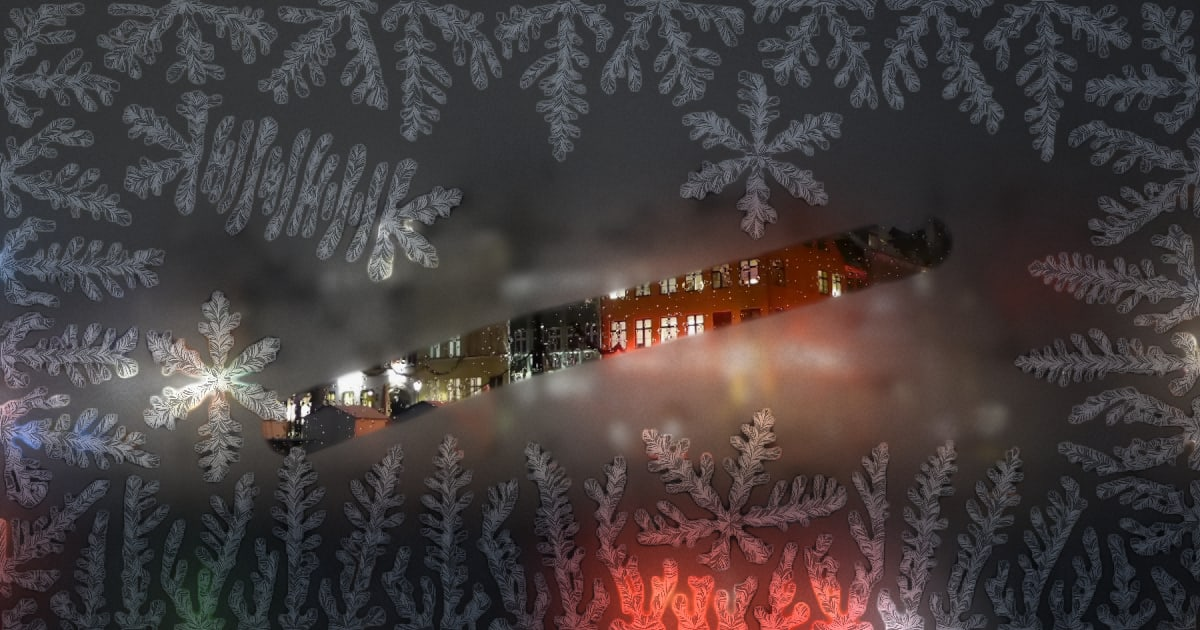
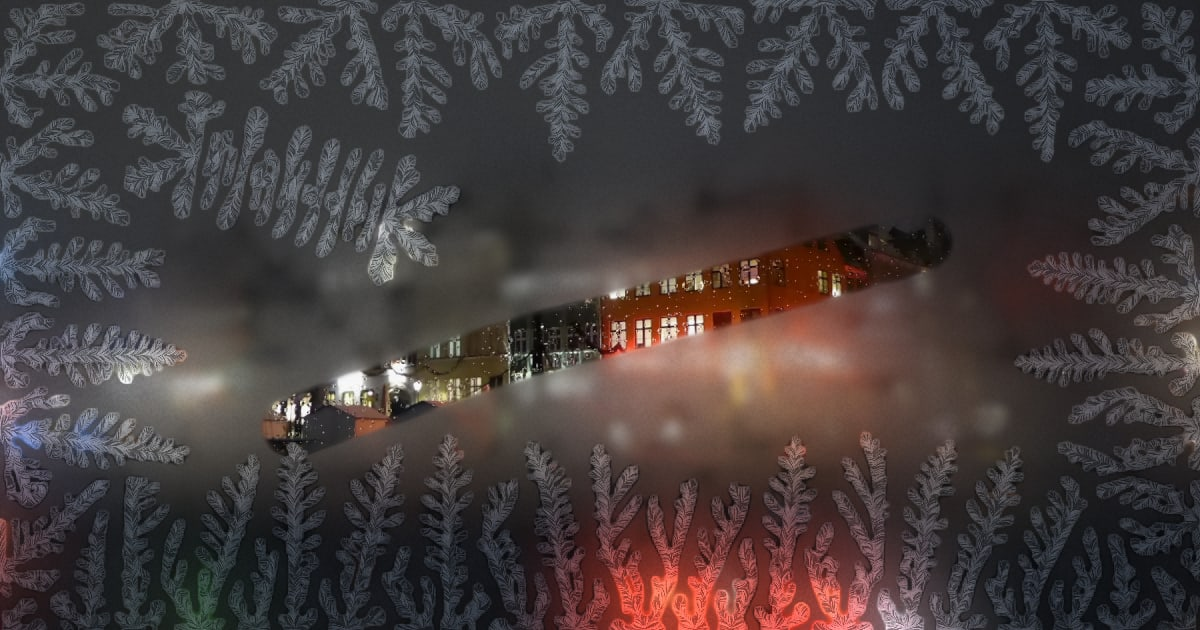
No specks of dust: the ice starts only on the frame and the scratch
Alone in open glass a crystal grew as a six-armed star, which read as a paper
snowflake, not frost. The specks' random draws are kept, so every window keeps
its scratch where it was. The test now holds that no seed sits off the frame
and off the scratch. New posters and social card.

Claude-Session: https://claude.ai/code/session_01CTffCeLPS1AvqVyJCcdvrP

diff --git a/docs/main.js b/docs/main.js
@@ -1,11 +1,11 @@
-var Xt={dx:.03,dt:1e-4,tau:2e-4,eps:.01,delta:.045,sym:6,latent:2.2,alpha:.9,gamma:10,melt:1,noise:.04,cool:0},ee={warm:12,fade:1.4,warmth:3,thaw:10,dry:.22,film:14,filmMelt:16},Lt=[-20,-2];function Vt(n){let a=Ce((-n-2)/18,0,1);return{frame:.25-.65*a,middle:.5-.6*a,foot:.08}}function $t(n){return .5+.45*Ce((-n-2)/18,0,1)}function jt(n){let a=n>>>0;return()=>{a=a+1831565813>>>0;let e=Math.imul(a^a>>>15,1|a);return e=e+Math.imul(e^e>>>7,61|e)^e,((e^e>>>14)>>>0)/4294967296}}function Rt(n,a,e){let p=jt(e),m=[],ne=()=>p()*Math.PI/3,he=(u,x)=>{for(let b=0;b<u;b++){let[Te,Ve]=x((b+.5+(p()-.5)*.7)/u);m.push({x:Te,y:Ve,r:2.5+p()*1.5,angle:ne(),frame:!0})}},F=Math.min(n,a);he(Math.max(4,Math.round(n/(F*.085))),u=>[u*n,1.5]),he(Math.max(2,Math.round(a/(F*.16))),u=>[1.5,(.06+u*.88)*a]),he(Math.max(2,Math.round(a/(F*.18))),u=>[n-1.5,(.1+u*.82)*a]),he(Math.max(2,Math.round(n/(F*.24))),u=>[(.12+u*.8)*n,a-1.5]);for(let u=0;u<3;u++){let x=p()*Math.PI*2,b=.28+p()*.12;m.push({x:n*(.5+Math.cos(x)*b),y:a*(.5+Math.sin(x)*b*.9),r:2,angle:ne(),frame:!1})}let D=p()<.5,ae=n*(.16+p()*.08),L=.32+p()*.2,ie=n*(D?.16:.84),se=a*(.74+p()*.08),ue={ax:ie,ay:se,bx:ie+(D?1:-1)*ae*Math.cos(L),by:se-ae*Math.sin(L),angle:L},E=Math.min(60-m.length,Math.max(4,Math.round(ae/9)));for(let u=0;u<E;u++){let x=(u+.5+(p()-.5)*.5)/E;m.push({x:ie+(ue.bx-ie)*x,y:se+(ue.by-se)*x,r:1.6+p(),angle:L+(p()-.5)*.3,frame:!1})}return{seeds:m.slice(0,60),scratch:ue}}var Kt=`#version 300 es
+var Xt={dx:.03,dt:1e-4,tau:2e-4,eps:.01,delta:.045,sym:6,latent:2.2,alpha:.9,gamma:10,melt:1,noise:.04,cool:0},ee={warm:12,fade:1.4,warmth:3,thaw:10,dry:.22,film:14,filmMelt:16},Lt=[-20,-2];function Vt(n){let a=Pe((-n-2)/18,0,1);return{frame:.25-.65*a,middle:.5-.6*a,foot:.08}}function $t(n){return .5+.45*Pe((-n-2)/18,0,1)}function jt(n){let a=n>>>0;return()=>{a=a+1831565813>>>0;let e=Math.imul(a^a>>>15,1|a);return e=e+Math.imul(e^e>>>7,61|e)^e,((e^e>>>14)>>>0)/4294967296}}function Rt(n,a,e){let p=jt(e),h=[],me=()=>p()*Math.PI/3,he=(u,T)=>{for(let M=0;M<u;M++){let[Te,Ve]=T((M+.5+(p()-.5)*.7)/u);h.push({x:Te,y:Ve,r:2.5+p()*1.5,angle:me(),frame:!0})}},F=Math.min(n,a);he(Math.max(4,Math.round(n/(F*.085))),u=>[u*n,1.5]),he(Math.max(2,Math.round(a/(F*.16))),u=>[1.5,(.06+u*.88)*a]),he(Math.max(2,Math.round(a/(F*.18))),u=>[n-1.5,(.1+u*.82)*a]),he(Math.max(2,Math.round(n/(F*.24))),u=>[(.12+u*.8)*n,a-1.5]);for(let u=0;u<9;u++)p();let D=p()<.5,ne=n*(.16+p()*.08),L=.32+p()*.2,ae=n*(D?.16:.84),ie=a*(.74+p()*.08),se={ax:ae,ay:ie,bx:ae+(D?1:-1)*ne*Math.cos(L),by:ie-ne*Math.sin(L),angle:L},w=Math.min(60-h.length,Math.max(4,Math.round(ne/9)));for(let u=0;u<w;u++){let T=(u+.5+(p()-.5)*.5)/w;h.push({x:ae+(se.bx-ae)*T,y:ie+(se.by-ie)*T,r:1.6+p(),angle:L+(p()-.5)*.3,frame:!1})}return{seeds:h.slice(0,60),scratch:se}}var Kt=`#version 300 es
 in vec2 p;
 void main() { gl_Position = vec4(p, 0.0, 1.0); }`,te=`#version 300 es
 precision highp float;
 precision highp int;
 precision highp sampler2D;
 out vec4 o;
-`,C=Xt,M=n=>Number.isInteger(n)?n.toFixed(1):String(n),Yt=te+`
+`,P=Xt,E=n=>Number.isInteger(n)?n.toFixed(1):String(n),Yt=te+`
 uniform sampler2D uS;    // p, T, W, water
 uniform sampler2D uA;    // cos \u03B80, sin \u03B80 (the crystal's turn), pinned (a seed on the frame), the glass's temperature
 uniform ivec2 uN;
@@ -15,9 +15,9 @@ uniform vec4 uSeg;       // the finger's path over this step, a to b, in cells
 uniform float uRad;      // its radius, cells
 uniform float uPress;
 uniform float uThaw;     // warmth everywhere (thawing the whole window)
-const float DX = ${M(C.dx)}, DT = ${M(C.dt)}, TAU = ${M(C.tau)}, EB = ${M(C.eps)}, DELTA = ${M(C.delta)};
-const float K = ${M(C.latent)}, ALPHA = ${M(C.alpha)}, GAMMA = ${M(C.gamma)}, TM = ${M(C.melt)}, NOISE = ${M(C.noise)}, COOL = ${M(C.cool)};
-const float RISE = ${M(ee.warm)}, FADE = ${M(ee.fade)}, WMAX = ${M(ee.warmth)}, THAW = ${M(ee.thaw)}, DRY = ${M(ee.dry)};
+const float DX = ${E(P.dx)}, DT = ${E(P.dt)}, TAU = ${E(P.tau)}, EB = ${E(P.eps)}, DELTA = ${E(P.delta)};
+const float K = ${E(P.latent)}, ALPHA = ${E(P.alpha)}, GAMMA = ${E(P.gamma)}, TM = ${E(P.melt)}, NOISE = ${E(P.noise)}, COOL = ${E(P.cool)};
+const float RISE = ${E(ee.warm)}, FADE = ${E(ee.fade)}, WMAX = ${E(ee.warmth)}, THAW = ${E(ee.thaw)}, DRY = ${E(ee.dry)};
 
 vec4 S(ivec2 c) { return texelFetch(uS, clamp(c, ivec2(0), uN - 1), 0); }
 uint pcg(uint v) { uint s = v * 747796405u + 2891336453u; uint w = ((s >> ((s >> 28u) + 4u)) ^ s) * 277803737u; return (w >> 22u) ^ w; }
@@ -105,7 +105,7 @@ uniform sampler2D uA;    // the glass's temperature in .w
 uniform float uDt;       // seconds of the ice's time since the last
 uniform float uThaw;
 uniform float uMax;      // how thick it grows at this cold
-const float GROW = ${M(ee.film)}, MELT = ${M(ee.filmMelt)}, DRY = ${M(ee.dry)};
+const float GROW = ${E(ee.film)}, MELT = ${E(ee.filmMelt)}, DRY = ${E(ee.dry)};
 float hash(vec2 p) { vec3 q = fract(vec3(p.xyx) * 0.1031); q += dot(q, q.yzx + 33.33); return fract((q.x + q.y) * q.z); }
 float vnoise(vec2 p) {
   vec2 i = floor(p), u = fract(p); u = u * u * (3.0 - 2.0 * u);
@@ -350,4 +350,4 @@ void main() {
   col = mix(col * 12.92, 1.055 * pow(col, vec3(1.0 / 2.4)) - 0.055, step(0.0031308, col));
   col += (hash(q + fract(uTime) * 91.0) - 0.5) / 255.0;
   o = vec4(col, 1.0);
-}`;function kt(n){let a=n.canvas,e=a.getContext("webgl2",{antialias:!1,alpha:!1,depth:!1,stencil:!1,premultipliedAlpha:!1,preserveDrawingBuffer:!1,powerPreference:"high-performance"});if(!e)throw new Error("no WebGL 2");if(!e.getExtension("EXT_color_buffer_float"))throw new Error("no float render targets");let p=e.getExtension("KHR_parallel_shader_compile"),m=[],ne=(t,r)=>{let o=e.createShader(t);return e.shaderSource(o,r),e.compileShader(o),m.push(o),o},he=ne(e.VERTEX_SHADER,Kt),F=t=>{let r=e.createProgram(),o=ne(e.FRAGMENT_SHADER,t);return e.attachShader(r,he),e.attachShader(r,o),e.bindAttribLocation(r,0,"p"),e.linkProgram(r),{prog:r,fs:o,u:new Map}},D={init:F(Zt),step:F(Yt),film:F(Jt),blur:F(Qt),age:F(er),way:F(tr),soft:F(rr),look:F(or)},ae=Object.values(D),L=!1,ie=e.createVertexArray();e.bindVertexArray(ie);let se=e.createBuffer();e.bindBuffer(e.ARRAY_BUFFER,se),e.bufferData(e.ARRAY_BUFFER,new Float32Array([-1,-1,3,-1,-1,3]),e.STATIC_DRAW),e.enableVertexAttribArray(0),e.vertexAttribPointer(0,2,e.FLOAT,!1,0,0);let Ee=e.getParameter(e.MAX_TEXTURE_SIZE),ue=new Set,E=(t,r,o,i)=>{let h=e.createTexture();e.bindTexture(e.TEXTURE_2D,h),e.texStorage2D(e.TEXTURE_2D,1,o,t,r);let d=i?e.LINEAR:e.NEAREST;e.texParameteri(e.TEXTURE_2D,e.TEXTURE_MIN_FILTER,d),e.texParameteri(e.TEXTURE_2D,e.TEXTURE_MAG_FILTER,d),e.texParameteri(e.TEXTURE_2D,e.TEXTURE_WRAP_S,e.CLAMP_TO_EDGE),e.texParameteri(e.TEXTURE_2D,e.TEXTURE_WRAP_T,e.CLAMP_TO_EDGE);let T=e.createFramebuffer();e.bindFramebuffer(e.FRAMEBUFFER,T),e.framebufferTexture2D(e.FRAMEBUFFER,e.COLOR_ATTACHMENT0,e.TEXTURE_2D,h,0),e.bindFramebuffer(e.FRAMEBUFFER,null);let f={tex:h,fbo:T,w:t,h:r};return ue.add(f),f},u=t=>{t&&(e.deleteTexture(t.tex),e.deleteFramebuffer(t.fbo),ue.delete(t))},x=1,b=1,Te=n.pixelRatio??Math.min(window.devicePixelRatio||1,2),Ve=()=>Math.min(x,b)<560||matchMedia("(pointer: coarse)").matches,c=0,l=0,R=0,G=0,de=0,g=null,B=null,Me=null,pe=null,U=null,I=null,ge=0,Se=null,Le=null,ve=null,$e=n.seed??7,Ge=Ce(n.cold??-9,...Lt),je=Rt(1,1,$e),k=null,A=null,H=0,X=0,Re=!0,ct=!!n.mirror,Ue=!1,lt=n.focus??[.5,.5],ke=null,ce=null,Fe=null,xe=null,Ae=0,Ie=()=>k instanceof HTMLVideoElement?k:null,Ut=t=>typeof t.requestVideoFrameCallback=="function",W=!!n.still,le=!0,Ke=!0,z=0,V=-1,De=!1,$=0,be=18,O=-1,j=-1,we=[],s=null,ye=[0,0],We=!1,Oe=!1,K=-1,Ne=0,Y=0,Z=1,N=!0;function Ye(t){if(K>=0)return 260*Z;if(O<0)return 0;let r=(t-O)/1e3,o=(t-j)/1e3,i=s||o<6;if(W)return i?260:0;let h=900*Math.exp(-r/2.4),d=r<45?1:Math.max(0,1-(r-45)/20);return Z*Math.max(h+230*d,i?260:0,o<40?230:0)}function Ze(){let t=a.getBoundingClientRect();x=Math.max(1,t.width),b=Math.max(1,t.height);let r=Math.round(x*Te),o=Math.round(b*Te);(a.width!==r||a.height!==o)&&(a.width=r,a.height=o);let i=x/b,h=c/Math.max(1,l);(!g||Math.abs(Math.log(i/h))>.18)&&It(),N=!0}function It(){let t=n.cells??Math.round(Ve()?Math.min(52e4,x*b*1.6):Ce(x*b*.72,3e5,9e5));c=Math.max(32,Math.min(Ee,Math.round(Math.sqrt(t*x/b)))),l=Math.max(32,Math.min(Ee,Math.round(t/c))),g&&(u(g[0]),u(g[1])),U&&(u(U[0]),u(U[1])),I&&(u(I[0]),u(I[1])),u(B),u(Me),u(pe),u(Se),u(Le),u(ve),g=[E(c,l,e.RGBA32F,!1),E(c,l,e.RGBA32F,!1)],U=[E(c,l,e.RG16F,!0),E(c,l,e.RG16F,!0)],B=E(c,l,e.RGBA16F,!1),Me=E(c,l,e.RGBA16F,!1),pe=E(c,l,e.RGBA16F,!0),I=[E(c,l,e.RG32F,!1),E(c,l,e.RG32F,!1)],ge=0,Se=E(c,l,e.RGBA16F,!1),Le=E(c,l,e.RGBA16F,!1),ve=E(c,l,e.RGBA16F,!0),G=0,R=0,de=0,Z=Math.sqrt(c*l/52e4),L&&Je()}function Je(){!g||!B||(je=Rt(c,l,$e),ft(!0),O=-1,G=0,$=0,W&&(Y=Math.round(5200*Z)))}function ft(t){let r=J(D.init),o=new Float32Array(240),i=new Float32Array(60);je.seeds.forEach((d,T)=>{o.set([d.x,d.y,d.r,d.angle],T*4),i[T]=d.frame?1:0}),e.uniform4fv(r("uSeeds"),o),e.uniform1fv(r("uFrame"),i),e.uniform1i(r("uCount"),je.seeds.length),e.uniform2i(r("uN"),c,l);let h=Vt(Ge);e.uniform3f(r("uCold"),h.frame,h.middle,h.foot),e.viewport(0,0,c,l),e.uniform1i(r("uKeep"),0),e.uniform1i(r("uPrev"),0),v(0,g[R].tex),e.uniform1i(r("uMode"),1),P(B),t&&(e.uniform1i(r("uMode"),0),e.uniform1i(r("uKeep"),G>0?1:0),v(0,g[R].tex),P(g[1-R]),R=1-R,Qe(0,0,!0))}function J(t){return e.useProgram(t.prog),r=>{let o=t.u.get(r);return o===void 0&&(o=e.getUniformLocation(t.prog,r),t.u.set(r,o)),o}}function P(t){e.bindFramebuffer(e.FRAMEBUFFER,t?t.fbo:null),e.drawArrays(e.TRIANGLES,0,3)}function v(t,r){e.activeTexture(e.TEXTURE0+t),e.bindTexture(e.TEXTURE_2D,r)}function mt(t,r){if(!g||!B||t<=0)return;let o=J(D.step);e.viewport(0,0,c,l),e.uniform1i(o("uS"),0),e.uniform1i(o("uA"),1),e.uniform2i(o("uN"),c,l),e.uniform1f(o("uStepSec"),r/t),e.uniform1f(o("uThaw"),Ne);let i=c/x,h=l/b;e.uniform1f(o("uRad"),Math.max(26,Math.min(x,b)*.05)*i),v(1,B.tex);for(let d=0;d<t;d++){if(s){let T=d/t,f=(d+1)/t,q=s.px+(s.x-s.px)*T,Q=s.py+(s.y-s.py)*T,_e=s.px+(s.x-s.px)*f,Ht=s.py+(s.y-s.py)*f;e.uniform4f(o("uSeg"),q*i,(b-Q)*h,_e*i,(b-Ht)*h),e.uniform1f(o("uPress"),1)}else e.uniform1f(o("uPress"),0);e.uniform1ui(o("uStep"),G++),v(0,g[R].tex),P(g[1-R]),R=1-R}s&&(s.px=s.x,s.py=s.y)}function ht(t){if(!g||!B||!U||t<=0)return;let r=J(D.film);e.viewport(0,0,c,l),e.uniform1i(r("uS"),0),e.uniform1i(r("uF"),1),e.uniform1i(r("uA"),2),e.uniform1f(r("uDt"),t),e.uniform1f(r("uThaw"),Ne),e.uniform1f(r("uMax"),$t(Ge)),v(0,g[R].tex),v(1,U[de].tex),v(2,B.tex),P(U[1-de]),de=1-de}function Qe(t,r,o=!1){if(!g||!I)return;let i=J(D.age);e.viewport(0,0,c,l),e.uniform1i(i("uS"),0),e.uniform1i(i("uG"),1),e.uniform2f(i("uClock"),t,r),e.uniform1i(i("uInit"),o?1:0),v(0,g[R].tex),v(1,I[ge].tex),P(I[1-ge]),ge=1-ge}function Wt(){if(!I||!Se||!Le||!ve)return;let t=J(D.way);e.viewport(0,0,c,l),e.uniform1i(t("uG"),0),e.uniform2i(t("uN"),c,l),e.uniform1f(t("uAhead"),40*Z),e.uniform1i(t("uPass"),0),v(0,I[ge].tex),P(Se),e.uniform1i(t("uPass"),1),e.uniform2i(t("uDir"),1,0),v(0,Se.tex),P(Le),e.uniform1i(t("uPass"),2),e.uniform2i(t("uDir"),0,1),v(0,Le.tex),P(ve)}function Ot(){if(!g||!Me||!pe)return;let t=J(D.blur);e.viewport(0,0,c,l),e.uniform1i(t("uS"),0),e.uniform2i(t("uN"),c,l),e.uniform2i(t("uDir"),1,0),e.uniform1i(t("uPass"),0),v(0,g[R].tex),P(Me),e.uniform2i(t("uDir"),0,1),e.uniform1i(t("uPass"),1),v(0,Me.tex),P(pe)}function et(){if(!k)return;let t=Ie(),r=t?t.videoWidth:k.naturalWidth||k.width,o=t?t.videoHeight:k.naturalHeight||k.height;if(!r||!o)return;let i=k;if(!t&&Math.max(r,o)>Ee){let T=Ee/Math.max(r,o),f=document.createElement("canvas");f.width=Math.round(r*T),f.height=Math.round(o*T),f.getContext("2d").drawImage(k,0,0,f.width,f.height),i=f}let h=i===k?r:i.width,d=i===k?o:i.height;if(e.activeTexture(e.TEXTURE2),!A||h!==H||d!==X||Re!==!t){A&&e.deleteTexture(A),A=e.createTexture(),e.bindTexture(e.TEXTURE_2D,A),H=h,X=d,Re=!t,e.texStorage2D(e.TEXTURE_2D,Math.floor(Math.log2(Math.max(H,X)))+1,Re?e.SRGB8_ALPHA8:e.RGBA8,H,X),e.texParameteri(e.TEXTURE_2D,e.TEXTURE_MIN_FILTER,e.LINEAR_MIPMAP_LINEAR),e.texParameteri(e.TEXTURE_2D,e.TEXTURE_MAG_FILTER,e.LINEAR),e.texParameteri(e.TEXTURE_2D,e.TEXTURE_WRAP_S,e.MIRRORED_REPEAT),e.texParameteri(e.TEXTURE_2D,e.TEXTURE_WRAP_T,e.MIRRORED_REPEAT),u(ke),u(ce),u(Fe),u(xe);let T=Math.max(8,Math.round(H/4)),f=Math.max(8,Math.round(X/4));ke=E(T,f,e.RGBA16F,!0),ce=E(T,f,e.RGBA16F,!0);let q=Math.max(4,Math.round(H/16)),Q=Math.max(4,Math.round(X/16));Fe=E(q,Q,e.RGBA16F,!0),xe=E(q,Q,e.RGBA16F,!0)}e.activeTexture(e.TEXTURE2),e.bindTexture(e.TEXTURE_2D,A),e.pixelStorei(e.UNPACK_FLIP_Y_WEBGL,!1),e.pixelStorei(e.UNPACK_PREMULTIPLY_ALPHA_WEBGL,!1),e.texSubImage2D(e.TEXTURE_2D,0,0,0,e.RGBA,e.UNSIGNED_BYTE,i),e.generateMipmap(e.TEXTURE_2D),Ue=!1,L&&dt()}function dt(){if(!A||!ke||!ce||!Fe||!xe)return;let t=J(D.soft);e.uniform1i(t("uSrc"),0);let r=(o,i,h,d,T,f,q)=>{e.viewport(0,0,i.w,i.h),e.uniform2f(t("uOut"),i.w,i.h),e.uniform2f(t("uDir"),h,d),e.uniform1f(t("uLod"),T),e.uniform1i(t("uDecode"),f?1:0),e.uniform1f(t("uSigma"),q),v(0,o),P(i)};r(A,ke,1,0,2,!Re,2.6),r(ke.tex,ce,0,1,0,!1,2.6),r(ce.tex,Fe,1.5,0,0,!1,3.2),r(Fe.tex,xe,0,1.5,0,!1,3.2)}function Pe(t){if(!L||!A||!pe||!U||!ce||!xe||!ve)return!1;Ot(),Wt();let r=J(D.look),o=a.width,i=a.height;e.viewport(0,0,o,i);let h=Math.max(o/H,i/X),[d,T]=lt,f=H*h,q=X*h,Q=(o-f)*d,_e=(i-q)*T;return e.uniform4f(r("uFit"),Q,_e,f,q),e.uniform2f(r("uRes"),o,i),e.uniform1f(r("uScale"),o/x),e.uniform2f(r("uGrid"),c,l),We||(ye=[x*.3,b*.2]),e.uniform2f(r("uLight"),ye[0]*o/x,ye[1]*i/b),e.uniform1f(r("uTime"),t/1e3%1e3),e.uniform1i(r("uDecode"),Re?0:1),e.uniform1i(r("uMirror"),ct?1:0),e.uniform1f(r("uLit"),Oe||s?1:.35),e.uniform1i(r("uLook"),0),e.uniform1i(r("uSharp"),1),e.uniform1i(r("uSoft"),2),e.uniform1i(r("uGlow"),3),e.uniform1i(r("uFilm"),4),e.uniform1i(r("uWay"),5),v(0,pe.tex),v(1,A),v(2,ce.tex),v(3,xe.tex),v(4,U[de].tex),v(5,ve.tex),P(null),!0}function tt(t){if(z=0,!le||!Ke)return;if(!L&&!Nt()){z=requestAnimationFrame(tt);return}let r=V<0?1/60:Math.min(.1,(t-V)/1e3);V>=0&&(we.push(t-V),we.length>40&&we.shift()),V=t;let o=Ie();o&&(Ue||!Ut(o)&&!o.paused)&&et(),we.length>=40&&[...we].sort((Q,_e)=>Q-_e)[20]>21&&be>3&&(be=Math.max(3,Math.floor(be*.75)),we.length=0);let i=0,h=r;if(Y>0)i=Math.min(Y,80),Y-=i,h=i/260;else if(K>=0){let f=(t-K)/1e3;Ne=W?1:Math.min(1,f/.9)*.9,f>(W?0:1.8)?(K=-1,Ne=0,$e++,Je(),W||(O=t),j=t):($+=Ye(t)*r,i=Math.min(Math.floor($),be),$-=i)}else $+=Ye(t)*r,i=Math.min(Math.floor($),be),$=Math.min($-i,be);mt(i,h),i>0&&Qe(G-i,G),i>0&&ht(i/(230*Z)*(Y>0?2.5:1)),(i>0||N||o)&&Pe(t)&&(N=!1,n.onFrame?.(t),!De&&Y<=0&&(De=!0,requestAnimationFrame(()=>requestAnimationFrame(f=>{le&&(O<0&&!W&&(O=f),n.onReady?.(),w())})))),(Y>0||K>=0||Ye(t)>0||O<0&&!W&&!De||!!o&&!o.paused)&&A||!L?z=requestAnimationFrame(tt):V=-1}function w(){le&&Ke&&!z&&(z=requestAnimationFrame(tt))}function Nt(){if(p&&ae.some(t=>!e.getProgramParameter(t.prog,p.COMPLETION_STATUS_KHR)))return!1;for(let t of ae)if(!e.getProgramParameter(t.prog,e.LINK_STATUS)){let r=e.getShaderInfoLog(t.fs)||e.getProgramInfoLog(t.prog)||"link failed";return pt(new Error(`frost: ${r}`)),!1}return L=!0,Je(),A&&dt(),!0}function pt(t){le&&(n.onFail?.(t),St())}let gt=t=>{t.preventDefault(),pt(new Error("frost: WebGL context lost"))};a.addEventListener("webglcontextlost",gt);let vt=t=>{let r=a.getBoundingClientRect();return[t.clientX-r.left,t.clientY-r.top]},xt=t=>{if(t.button>0||s)return;let[r,o]=vt(t);s={id:t.pointerId,x:r,y:o,px:r,py:o},ye=[r,o],We=!0,a.setPointerCapture?.(t.pointerId),j=performance.now(),t.preventDefault(),w()},bt=t=>{let[r,o]=vt(t);s&&s.id===t.pointerId&&(s.x=r,s.y=o),(t.pointerType==="mouse"||s)&&(ye=[r,o],We=!0,Oe=t.pointerType==="mouse",N=!0,w())},wt=()=>{Oe&&(Oe=!1,N=!0,w())},Be=t=>{!s||s.id!==t.pointerId||(s=null,j=performance.now(),w())};a.addEventListener("pointerdown",xt),a.addEventListener("pointermove",bt),a.addEventListener("pointerup",Be),a.addEventListener("pointercancel",Be),a.addEventListener("pointerleave",wt);let yt=()=>{document.hidden?(cancelAnimationFrame(z),z=0,V=-1):w()};document.addEventListener("visibilitychange",yt);let Et=new ResizeObserver(()=>{Ze(),De&&Pe(performance.now()),w()});Et.observe(a),Ze();function Bt(t){let r=t;if(!r.requestVideoFrameCallback){t.addEventListener("play",w);return}let o=()=>{!le||k!==t||(Ue=!0,w(),Ae=r.requestVideoFrameCallback(o))};Ae=r.requestVideoFrameCallback(o)}function Tt(){let t=Ie();t&&(t.removeEventListener("play",w),Ae&&t.cancelVideoFrameCallback?.(Ae),Ae=0)}function Mt(t,r={}){Tt(),k=t,ct=!!r.mirror,Ue=!0,lt=r.focus??[.5,.5];let o=Ie();o&&Bt(o),!o||o.readyState>=2?et():o.addEventListener("loadeddata",()=>{k===o&&(et(),N=!0,w())},{once:!0}),N=!0,w()}function St(){if(le&&(le=!1,cancelAnimationFrame(z),Tt(),Et.disconnect(),document.removeEventListener("visibilitychange",yt),a.removeEventListener("webglcontextlost",gt),a.removeEventListener("pointerdown",xt),a.removeEventListener("pointermove",bt),a.removeEventListener("pointerup",Be),a.removeEventListener("pointercancel",Be),a.removeEventListener("pointerleave",wt),!e.isContextLost())){for(let t of[...ue])u(t);e.deleteTexture(A),e.deleteBuffer(se),e.deleteVertexArray(ie);for(let t of ae)e.deleteProgram(t.prog);for(let t of m)e.deleteShader(t);e.getExtension("WEBGL_lose_context")?.loseContext()}}return n.source&&Mt(n.source,{mirror:n.mirror,focus:n.focus}),w(),{setSource:Mt,setCold(t){Ge=Ce(t,...Lt),L&&g&&ft(!1),j=performance.now(),w()},get cold(){return Ge},thaw(){K<0&&L&&(K=performance.now(),j=K,w())},touch(t,r=0){if(t===null){s?.id===-1&&(s=null),j=performance.now(),w();return}s&&s.id===-1?(s.x=t,s.y=r):s||(s={id:-1,x:t,y:r,px:t,py:r}),ye=[t,r],We=!0,j=performance.now(),w()},setStill(t){t!==W&&(W=t,t&&O>=0&&performance.now()-O<8e3&&(Y=Math.round(4e3*Z)),N=!0,w())},setActive(t){Ke=t,t?(N=!0,w()):(cancelAnimationFrame(z),z=0,V=-1)},setPixelRatio(t){Te=t,Ze(),De&&Pe(performance.now()),w()},get grid(){return[c,l]},get steps(){return G},advance(t){if(L){for(let r=0;r<t;r+=50){let o=Math.min(50,t-r);mt(o,o/260),Qe(G-o,G),ht(o/(230*Z))}Pe(performance.now())}},read(){if(!g)return null;let t=new Float32Array(c*l*4);return e.bindFramebuffer(e.FRAMEBUFFER,g[R].fbo),e.readPixels(0,0,c,l,e.RGBA,e.FLOAT,t),e.bindFramebuffer(e.FRAMEBUFFER,null),t},snapshot(t="image/png",r){return Pe(performance.now()),new Promise(o=>a.toBlob(o,t,r))},dispose:St}}async function Ft(n="user"){let a=await navigator.mediaDevices.getUserMedia({audio:!1,video:{facingMode:n,width:{ideal:1920},height:{ideal:1080}}}),e=document.createElement("video");e.muted=!0,e.playsInline=!0,e.srcObject=a;try{await e.play()}catch(m){throw a.getTracks().forEach(ne=>ne.stop()),m}let p=a.getVideoTracks()[0]?.getSettings().facingMode;return{video:e,mirror:(p??n)!=="environment",stop(){a.getTracks().forEach(m=>m.stop()),e.srcObject=null}}}function Ce(n,a,e){return Math.min(e,Math.max(a,n))}var me=new URLSearchParams(location.search),S=document.querySelector("#frost"),re=S.querySelector("canvas"),At=S.querySelector(".fr-finger"),rt=S.querySelector(".fr-note"),nt=S.querySelector(".fr-cold input"),Pt=S.querySelector("output"),_t=[...S.querySelectorAll("[data-source]")],it=S.querySelector(".fr-flip"),at=matchMedia("(prefers-reduced-motion: reduce)"),nr=matchMedia("(max-width: 700px)").matches,He=nr?[.5,.5]:[.5,.52],st=Number(me.get("cold")??-9),Ct=n=>`${n<0?"\u2212":""}${Math.abs(n).toFixed(1)} \xB0C`,y=null,oe=null,ze=null,fe=S.querySelector(".fr-photo");me.has("photo")&&(S.querySelector(".fr-pic source")?.remove(),fe.src=me.get("photo"));nt.value=String(st);Pt.textContent=Ct(st);function ut(n){for(let a of _t)a.setAttribute("aria-pressed",String(a.dataset.source===n))}function Xe(n){rt.textContent=n,n&&setTimeout(()=>{rt.textContent===n&&(rt.textContent="")},4e3)}function qe(){oe?.stop(),oe=null,it.hidden=!0,ze&&(URL.revokeObjectURL(ze),ze=null)}try{y=kt({canvas:re,cold:st,focus:He,seed:me.has("seed")?Number(me.get("seed")):void 0,still:me.has("still")||at.matches,onReady:()=>{S.dataset.gl="on"},onFail:()=>{S.dataset.gl="off",y=null,qe()}}),fe.decode().then(()=>{y?.setSource(fe,{focus:He}),fe.addEventListener("load",()=>{y&&!oe&&!ze&&fe.complete&&y.setSource(fe,{focus:He})})},()=>Xe("The photo didn't load"))}catch{S.dataset.gl="off"}at.addEventListener("change",()=>y?.setStill(at.matches));me.has("debug")&&Object.assign(window,{frost:y});function zt(){qe(),y?.setSource(fe,{focus:He}),ut("photo")}async function qt(n){if(y)try{let a=await Ft(n);if(!y){a.stop();return}qe(),oe=a,y.setSource(a.video,{mirror:a.mirror}),ut("camera"),navigator.mediaDevices.enumerateDevices?.().then(e=>{it.hidden=!oe||e.filter(p=>p.kind==="videoinput").length<2},()=>{})}catch{Xe("No camera, or it wasn't allowed")}}for(let n of _t)n.addEventListener("click",()=>{n.dataset.source==="photo"||oe?zt():qt("user")});it.addEventListener("click",()=>{qt(oe?.mirror?"environment":"user")});S.querySelector(".fr-file input").addEventListener("change",n=>{let a=n.target.files?.[0];if(!a||!y)return;let e=URL.createObjectURL(a),p=m=>{qe(),ze=e,y.setSource(m),ut("")};if(a.type.startsWith("video/")){let m=document.createElement("video");m.muted=!0,m.loop=!0,m.playsInline=!0,m.src=e,m.play().then(()=>p(m),()=>{URL.revokeObjectURL(e),Xe("That video won't play here")})}else{let m=new Image;m.src=e,m.decode().then(()=>p(m),()=>{URL.revokeObjectURL(e),Xe("That file isn't a picture")})}});nt.addEventListener("input",()=>{let n=Number(nt.value);y?.setCold(n),Pt.textContent=Ct(n)});S.querySelector(".fr-thaw").addEventListener("click",()=>y?.thaw());var _=null;function Dt(n,a){return _??={x:0,y:0,down:!1},_.x=Math.min(re.clientWidth,Math.max(0,n)),_.y=Math.min(re.clientHeight,Math.max(0,a)),At.style.left=`${_.x}px`,At.style.top=`${_.y}px`,_.down&&y?.touch(_.x,_.y),_}var ot={ArrowLeft:[-24,0],ArrowRight:[24,0],ArrowUp:[0,-24],ArrowDown:[0,24]};re.addEventListener("keydown",n=>{if(!y)return;let a=_??Dt(re.clientWidth/2,re.clientHeight/2);ot[n.key]?(n.preventDefault(),Dt(a.x+ot[n.key][0],a.y+ot[n.key][1])):(n.key===" "||n.key==="Enter")&&!n.repeat&&(n.preventDefault(),a.down=!0,y.touch(a.x,a.y))});var Gt=()=>{_?.down&&(_.down=!1,y?.touch(null))};re.addEventListener("keyup",n=>{(n.key===" "||n.key==="Enter")&&Gt()});re.addEventListener("blur",Gt);S.querySelector(".fr-save").addEventListener("click",async()=>{let n=await y?.snapshot("image/jpeg",.92);if(!n)return;let a=document.createElement("a");a.href=URL.createObjectURL(n),a.download="frost.jpg",a.click(),setTimeout(()=>URL.revokeObjectURL(a.href),1e3)});addEventListener("pagehide",qe);document.addEventListener("visibilitychange",()=>{document.hidden&&oe&&zt()});
+}`;function kt(n){let a=n.canvas,e=a.getContext("webgl2",{antialias:!1,alpha:!1,depth:!1,stencil:!1,premultipliedAlpha:!1,preserveDrawingBuffer:!1,powerPreference:"high-performance"});if(!e)throw new Error("no WebGL 2");if(!e.getExtension("EXT_color_buffer_float"))throw new Error("no float render targets");let p=e.getExtension("KHR_parallel_shader_compile"),h=[],me=(t,r)=>{let o=e.createShader(t);return e.shaderSource(o,r),e.compileShader(o),h.push(o),o},he=me(e.VERTEX_SHADER,Kt),F=t=>{let r=e.createProgram(),o=me(e.FRAGMENT_SHADER,t);return e.attachShader(r,he),e.attachShader(r,o),e.bindAttribLocation(r,0,"p"),e.linkProgram(r),{prog:r,fs:o,u:new Map}},D={init:F(Zt),step:F(Yt),film:F(Jt),blur:F(Qt),age:F(er),way:F(tr),soft:F(rr),look:F(or)},ne=Object.values(D),L=!1,ae=e.createVertexArray();e.bindVertexArray(ae);let ie=e.createBuffer();e.bindBuffer(e.ARRAY_BUFFER,ie),e.bufferData(e.ARRAY_BUFFER,new Float32Array([-1,-1,3,-1,-1,3]),e.STATIC_DRAW),e.enableVertexAttribArray(0),e.vertexAttribPointer(0,2,e.FLOAT,!1,0,0);let Ee=e.getParameter(e.MAX_TEXTURE_SIZE),se=new Set,w=(t,r,o,i)=>{let m=e.createTexture();e.bindTexture(e.TEXTURE_2D,m),e.texStorage2D(e.TEXTURE_2D,1,o,t,r);let d=i?e.LINEAR:e.NEAREST;e.texParameteri(e.TEXTURE_2D,e.TEXTURE_MIN_FILTER,d),e.texParameteri(e.TEXTURE_2D,e.TEXTURE_MAG_FILTER,d),e.texParameteri(e.TEXTURE_2D,e.TEXTURE_WRAP_S,e.CLAMP_TO_EDGE),e.texParameteri(e.TEXTURE_2D,e.TEXTURE_WRAP_T,e.CLAMP_TO_EDGE);let y=e.createFramebuffer();e.bindFramebuffer(e.FRAMEBUFFER,y),e.framebufferTexture2D(e.FRAMEBUFFER,e.COLOR_ATTACHMENT0,e.TEXTURE_2D,m,0),e.bindFramebuffer(e.FRAMEBUFFER,null);let f={tex:m,fbo:y,w:t,h:r};return se.add(f),f},u=t=>{t&&(e.deleteTexture(t.tex),e.deleteFramebuffer(t.fbo),se.delete(t))},T=1,M=1,Te=n.pixelRatio??Math.min(window.devicePixelRatio||1,2),Ve=()=>Math.min(T,M)<560||matchMedia("(pointer: coarse)").matches,c=0,l=0,R=0,G=0,de=0,g=null,B=null,Me=null,pe=null,U=null,I=null,ge=0,Se=null,Le=null,ve=null,$e=n.seed??7,Ge=Pe(n.cold??-9,...Lt),je=Rt(1,1,$e),k=null,A=null,H=0,X=0,Re=!0,ct=!!n.mirror,Ue=!1,lt=n.focus??[.5,.5],ke=null,ue=null,Fe=null,xe=null,Ae=0,Ie=()=>k instanceof HTMLVideoElement?k:null,Ut=t=>typeof t.requestVideoFrameCallback=="function",W=!!n.still,ce=!0,Ke=!0,z=0,V=-1,De=!1,$=0,be=18,O=-1,j=-1,we=[],s=null,ye=[0,0],We=!1,Oe=!1,K=-1,Ne=0,Y=0,Z=1,N=!0;function Ye(t){if(K>=0)return 260*Z;if(O<0)return 0;let r=(t-O)/1e3,o=(t-j)/1e3,i=s||o<6;if(W)return i?260:0;let m=900*Math.exp(-r/2.4),d=r<45?1:Math.max(0,1-(r-45)/20);return Z*Math.max(m+230*d,i?260:0,o<40?230:0)}function Ze(){let t=a.getBoundingClientRect();T=Math.max(1,t.width),M=Math.max(1,t.height);let r=Math.round(T*Te),o=Math.round(M*Te);(a.width!==r||a.height!==o)&&(a.width=r,a.height=o);let i=T/M,m=c/Math.max(1,l);(!g||Math.abs(Math.log(i/m))>.18)&&It(),N=!0}function It(){let t=n.cells??Math.round(Ve()?Math.min(52e4,T*M*1.6):Pe(T*M*.72,3e5,9e5));c=Math.max(32,Math.min(Ee,Math.round(Math.sqrt(t*T/M)))),l=Math.max(32,Math.min(Ee,Math.round(t/c))),g&&(u(g[0]),u(g[1])),U&&(u(U[0]),u(U[1])),I&&(u(I[0]),u(I[1])),u(B),u(Me),u(pe),u(Se),u(Le),u(ve),g=[w(c,l,e.RGBA32F,!1),w(c,l,e.RGBA32F,!1)],U=[w(c,l,e.RG16F,!0),w(c,l,e.RG16F,!0)],B=w(c,l,e.RGBA16F,!1),Me=w(c,l,e.RGBA16F,!1),pe=w(c,l,e.RGBA16F,!0),I=[w(c,l,e.RG32F,!1),w(c,l,e.RG32F,!1)],ge=0,Se=w(c,l,e.RGBA16F,!1),Le=w(c,l,e.RGBA16F,!1),ve=w(c,l,e.RGBA16F,!0),G=0,R=0,de=0,Z=Math.sqrt(c*l/52e4),L&&Je()}function Je(){!g||!B||(je=Rt(c,l,$e),ft(!0),O=-1,G=0,$=0,W&&(Y=Math.round(5200*Z)))}function ft(t){let r=J(D.init),o=new Float32Array(240),i=new Float32Array(60);je.seeds.forEach((d,y)=>{o.set([d.x,d.y,d.r,d.angle],y*4),i[y]=d.frame?1:0}),e.uniform4fv(r("uSeeds"),o),e.uniform1fv(r("uFrame"),i),e.uniform1i(r("uCount"),je.seeds.length),e.uniform2i(r("uN"),c,l);let m=Vt(Ge);e.uniform3f(r("uCold"),m.frame,m.middle,m.foot),e.viewport(0,0,c,l),e.uniform1i(r("uKeep"),0),e.uniform1i(r("uPrev"),0),v(0,g[R].tex),e.uniform1i(r("uMode"),1),_(B),t&&(e.uniform1i(r("uMode"),0),e.uniform1i(r("uKeep"),G>0?1:0),v(0,g[R].tex),_(g[1-R]),R=1-R,Qe(0,0,!0))}function J(t){return e.useProgram(t.prog),r=>{let o=t.u.get(r);return o===void 0&&(o=e.getUniformLocation(t.prog,r),t.u.set(r,o)),o}}function _(t){e.bindFramebuffer(e.FRAMEBUFFER,t?t.fbo:null),e.drawArrays(e.TRIANGLES,0,3)}function v(t,r){e.activeTexture(e.TEXTURE0+t),e.bindTexture(e.TEXTURE_2D,r)}function mt(t,r){if(!g||!B||t<=0)return;let o=J(D.step);e.viewport(0,0,c,l),e.uniform1i(o("uS"),0),e.uniform1i(o("uA"),1),e.uniform2i(o("uN"),c,l),e.uniform1f(o("uStepSec"),r/t),e.uniform1f(o("uThaw"),Ne);let i=c/T,m=l/M;e.uniform1f(o("uRad"),Math.max(26,Math.min(T,M)*.05)*i),v(1,B.tex);for(let d=0;d<t;d++){if(s){let y=d/t,f=(d+1)/t,q=s.px+(s.x-s.px)*y,Q=s.py+(s.y-s.py)*y,Ce=s.px+(s.x-s.px)*f,Ht=s.py+(s.y-s.py)*f;e.uniform4f(o("uSeg"),q*i,(M-Q)*m,Ce*i,(M-Ht)*m),e.uniform1f(o("uPress"),1)}else e.uniform1f(o("uPress"),0);e.uniform1ui(o("uStep"),G++),v(0,g[R].tex),_(g[1-R]),R=1-R}s&&(s.px=s.x,s.py=s.y)}function ht(t){if(!g||!B||!U||t<=0)return;let r=J(D.film);e.viewport(0,0,c,l),e.uniform1i(r("uS"),0),e.uniform1i(r("uF"),1),e.uniform1i(r("uA"),2),e.uniform1f(r("uDt"),t),e.uniform1f(r("uThaw"),Ne),e.uniform1f(r("uMax"),$t(Ge)),v(0,g[R].tex),v(1,U[de].tex),v(2,B.tex),_(U[1-de]),de=1-de}function Qe(t,r,o=!1){if(!g||!I)return;let i=J(D.age);e.viewport(0,0,c,l),e.uniform1i(i("uS"),0),e.uniform1i(i("uG"),1),e.uniform2f(i("uClock"),t,r),e.uniform1i(i("uInit"),o?1:0),v(0,g[R].tex),v(1,I[ge].tex),_(I[1-ge]),ge=1-ge}function Wt(){if(!I||!Se||!Le||!ve)return;let t=J(D.way);e.viewport(0,0,c,l),e.uniform1i(t("uG"),0),e.uniform2i(t("uN"),c,l),e.uniform1f(t("uAhead"),40*Z),e.uniform1i(t("uPass"),0),v(0,I[ge].tex),_(Se),e.uniform1i(t("uPass"),1),e.uniform2i(t("uDir"),1,0),v(0,Se.tex),_(Le),e.uniform1i(t("uPass"),2),e.uniform2i(t("uDir"),0,1),v(0,Le.tex),_(ve)}function Ot(){if(!g||!Me||!pe)return;let t=J(D.blur);e.viewport(0,0,c,l),e.uniform1i(t("uS"),0),e.uniform2i(t("uN"),c,l),e.uniform2i(t("uDir"),1,0),e.uniform1i(t("uPass"),0),v(0,g[R].tex),_(Me),e.uniform2i(t("uDir"),0,1),e.uniform1i(t("uPass"),1),v(0,Me.tex),_(pe)}function et(){if(!k)return;let t=Ie(),r=t?t.videoWidth:k.naturalWidth||k.width,o=t?t.videoHeight:k.naturalHeight||k.height;if(!r||!o)return;let i=k;if(!t&&Math.max(r,o)>Ee){let y=Ee/Math.max(r,o),f=document.createElement("canvas");f.width=Math.round(r*y),f.height=Math.round(o*y),f.getContext("2d").drawImage(k,0,0,f.width,f.height),i=f}let m=i===k?r:i.width,d=i===k?o:i.height;if(e.activeTexture(e.TEXTURE2),!A||m!==H||d!==X||Re!==!t){A&&e.deleteTexture(A),A=e.createTexture(),e.bindTexture(e.TEXTURE_2D,A),H=m,X=d,Re=!t,e.texStorage2D(e.TEXTURE_2D,Math.floor(Math.log2(Math.max(H,X)))+1,Re?e.SRGB8_ALPHA8:e.RGBA8,H,X),e.texParameteri(e.TEXTURE_2D,e.TEXTURE_MIN_FILTER,e.LINEAR_MIPMAP_LINEAR),e.texParameteri(e.TEXTURE_2D,e.TEXTURE_MAG_FILTER,e.LINEAR),e.texParameteri(e.TEXTURE_2D,e.TEXTURE_WRAP_S,e.MIRRORED_REPEAT),e.texParameteri(e.TEXTURE_2D,e.TEXTURE_WRAP_T,e.MIRRORED_REPEAT),u(ke),u(ue),u(Fe),u(xe);let y=Math.max(8,Math.round(H/4)),f=Math.max(8,Math.round(X/4));ke=w(y,f,e.RGBA16F,!0),ue=w(y,f,e.RGBA16F,!0);let q=Math.max(4,Math.round(H/16)),Q=Math.max(4,Math.round(X/16));Fe=w(q,Q,e.RGBA16F,!0),xe=w(q,Q,e.RGBA16F,!0)}e.activeTexture(e.TEXTURE2),e.bindTexture(e.TEXTURE_2D,A),e.pixelStorei(e.UNPACK_FLIP_Y_WEBGL,!1),e.pixelStorei(e.UNPACK_PREMULTIPLY_ALPHA_WEBGL,!1),e.texSubImage2D(e.TEXTURE_2D,0,0,0,e.RGBA,e.UNSIGNED_BYTE,i),e.generateMipmap(e.TEXTURE_2D),Ue=!1,L&&dt()}function dt(){if(!A||!ke||!ue||!Fe||!xe)return;let t=J(D.soft);e.uniform1i(t("uSrc"),0);let r=(o,i,m,d,y,f,q)=>{e.viewport(0,0,i.w,i.h),e.uniform2f(t("uOut"),i.w,i.h),e.uniform2f(t("uDir"),m,d),e.uniform1f(t("uLod"),y),e.uniform1i(t("uDecode"),f?1:0),e.uniform1f(t("uSigma"),q),v(0,o),_(i)};r(A,ke,1,0,2,!Re,2.6),r(ke.tex,ue,0,1,0,!1,2.6),r(ue.tex,Fe,1.5,0,0,!1,3.2),r(Fe.tex,xe,0,1.5,0,!1,3.2)}function _e(t){if(!L||!A||!pe||!U||!ue||!xe||!ve)return!1;Ot(),Wt();let r=J(D.look),o=a.width,i=a.height;e.viewport(0,0,o,i);let m=Math.max(o/H,i/X),[d,y]=lt,f=H*m,q=X*m,Q=(o-f)*d,Ce=(i-q)*y;return e.uniform4f(r("uFit"),Q,Ce,f,q),e.uniform2f(r("uRes"),o,i),e.uniform1f(r("uScale"),o/T),e.uniform2f(r("uGrid"),c,l),We||(ye=[T*.3,M*.2]),e.uniform2f(r("uLight"),ye[0]*o/T,ye[1]*i/M),e.uniform1f(r("uTime"),t/1e3%1e3),e.uniform1i(r("uDecode"),Re?0:1),e.uniform1i(r("uMirror"),ct?1:0),e.uniform1f(r("uLit"),Oe||s?1:.35),e.uniform1i(r("uLook"),0),e.uniform1i(r("uSharp"),1),e.uniform1i(r("uSoft"),2),e.uniform1i(r("uGlow"),3),e.uniform1i(r("uFilm"),4),e.uniform1i(r("uWay"),5),v(0,pe.tex),v(1,A),v(2,ue.tex),v(3,xe.tex),v(4,U[de].tex),v(5,ve.tex),_(null),!0}function tt(t){if(z=0,!ce||!Ke)return;if(!L&&!Nt()){z=requestAnimationFrame(tt);return}let r=V<0?1/60:Math.min(.1,(t-V)/1e3);V>=0&&(we.push(t-V),we.length>40&&we.shift()),V=t;let o=Ie();o&&(Ue||!Ut(o)&&!o.paused)&&et(),we.length>=40&&[...we].sort((Q,Ce)=>Q-Ce)[20]>21&&be>3&&(be=Math.max(3,Math.floor(be*.75)),we.length=0);let i=0,m=r;if(Y>0)i=Math.min(Y,80),Y-=i,m=i/260;else if(K>=0){let f=(t-K)/1e3;Ne=W?1:Math.min(1,f/.9)*.9,f>(W?0:1.8)?(K=-1,Ne=0,$e++,Je(),W||(O=t),j=t):($+=Ye(t)*r,i=Math.min(Math.floor($),be),$-=i)}else $+=Ye(t)*r,i=Math.min(Math.floor($),be),$=Math.min($-i,be);mt(i,m),i>0&&Qe(G-i,G),i>0&&ht(i/(230*Z)*(Y>0?2.5:1)),(i>0||N||o)&&_e(t)&&(N=!1,n.onFrame?.(t),!De&&Y<=0&&(De=!0,requestAnimationFrame(()=>requestAnimationFrame(f=>{ce&&(O<0&&!W&&(O=f),n.onReady?.(),x())})))),(Y>0||K>=0||Ye(t)>0||O<0&&!W&&!De||!!o&&!o.paused)&&A||!L?z=requestAnimationFrame(tt):V=-1}function x(){ce&&Ke&&!z&&(z=requestAnimationFrame(tt))}function Nt(){if(p&&ne.some(t=>!e.getProgramParameter(t.prog,p.COMPLETION_STATUS_KHR)))return!1;for(let t of ne)if(!e.getProgramParameter(t.prog,e.LINK_STATUS)){let r=e.getShaderInfoLog(t.fs)||e.getProgramInfoLog(t.prog)||"link failed";return pt(new Error(`frost: ${r}`)),!1}return L=!0,Je(),A&&dt(),!0}function pt(t){ce&&(n.onFail?.(t),St())}let gt=t=>{t.preventDefault(),pt(new Error("frost: WebGL context lost"))};a.addEventListener("webglcontextlost",gt);let vt=t=>{let r=a.getBoundingClientRect();return[t.clientX-r.left,t.clientY-r.top]},xt=t=>{if(t.button>0||s)return;let[r,o]=vt(t);s={id:t.pointerId,x:r,y:o,px:r,py:o},ye=[r,o],We=!0,a.setPointerCapture?.(t.pointerId),j=performance.now(),t.preventDefault(),x()},bt=t=>{let[r,o]=vt(t);s&&s.id===t.pointerId&&(s.x=r,s.y=o),(t.pointerType==="mouse"||s)&&(ye=[r,o],We=!0,Oe=t.pointerType==="mouse",N=!0,x())},wt=()=>{Oe&&(Oe=!1,N=!0,x())},Be=t=>{!s||s.id!==t.pointerId||(s=null,j=performance.now(),x())};a.addEventListener("pointerdown",xt),a.addEventListener("pointermove",bt),a.addEventListener("pointerup",Be),a.addEventListener("pointercancel",Be),a.addEventListener("pointerleave",wt);let yt=()=>{document.hidden?(cancelAnimationFrame(z),z=0,V=-1):x()};document.addEventListener("visibilitychange",yt);let Et=new ResizeObserver(()=>{Ze(),De&&_e(performance.now()),x()});Et.observe(a),Ze();function Bt(t){let r=t;if(!r.requestVideoFrameCallback){t.addEventListener("play",x);return}let o=()=>{!ce||k!==t||(Ue=!0,x(),Ae=r.requestVideoFrameCallback(o))};Ae=r.requestVideoFrameCallback(o)}function Tt(){let t=Ie();t&&(t.removeEventListener("play",x),Ae&&t.cancelVideoFrameCallback?.(Ae),Ae=0)}function Mt(t,r={}){Tt(),k=t,ct=!!r.mirror,Ue=!0,lt=r.focus??[.5,.5];let o=Ie();o&&Bt(o),!o||o.readyState>=2?et():o.addEventListener("loadeddata",()=>{k===o&&(et(),N=!0,x())},{once:!0}),N=!0,x()}function St(){if(ce&&(ce=!1,cancelAnimationFrame(z),Tt(),Et.disconnect(),document.removeEventListener("visibilitychange",yt),a.removeEventListener("webglcontextlost",gt),a.removeEventListener("pointerdown",xt),a.removeEventListener("pointermove",bt),a.removeEventListener("pointerup",Be),a.removeEventListener("pointercancel",Be),a.removeEventListener("pointerleave",wt),!e.isContextLost())){for(let t of[...se])u(t);e.deleteTexture(A),e.deleteBuffer(ie),e.deleteVertexArray(ae);for(let t of ne)e.deleteProgram(t.prog);for(let t of h)e.deleteShader(t);e.getExtension("WEBGL_lose_context")?.loseContext()}}return n.source&&Mt(n.source,{mirror:n.mirror,focus:n.focus}),x(),{setSource:Mt,setCold(t){Ge=Pe(t,...Lt),L&&g&&ft(!1),j=performance.now(),x()},get cold(){return Ge},thaw(){K<0&&L&&(K=performance.now(),j=K,x())},touch(t,r=0){if(t===null){s?.id===-1&&(s=null),j=performance.now(),x();return}s&&s.id===-1?(s.x=t,s.y=r):s||(s={id:-1,x:t,y:r,px:t,py:r}),ye=[t,r],We=!0,j=performance.now(),x()},setStill(t){t!==W&&(W=t,t&&O>=0&&performance.now()-O<8e3&&(Y=Math.round(4e3*Z)),N=!0,x())},setActive(t){Ke=t,t?(N=!0,x()):(cancelAnimationFrame(z),z=0,V=-1)},setPixelRatio(t){Te=t,Ze(),De&&_e(performance.now()),x()},get grid(){return[c,l]},get steps(){return G},advance(t){if(L){for(let r=0;r<t;r+=50){let o=Math.min(50,t-r);mt(o,o/260),Qe(G-o,G),ht(o/(230*Z))}_e(performance.now())}},read(){if(!g)return null;let t=new Float32Array(c*l*4);return e.bindFramebuffer(e.FRAMEBUFFER,g[R].fbo),e.readPixels(0,0,c,l,e.RGBA,e.FLOAT,t),e.bindFramebuffer(e.FRAMEBUFFER,null),t},snapshot(t="image/png",r){return _e(performance.now()),new Promise(o=>a.toBlob(o,t,r))},dispose:St}}async function Ft(n="user"){let a=await navigator.mediaDevices.getUserMedia({audio:!1,video:{facingMode:n,width:{ideal:1920},height:{ideal:1080}}}),e=document.createElement("video");e.muted=!0,e.playsInline=!0,e.srcObject=a;try{await e.play()}catch(h){throw a.getTracks().forEach(me=>me.stop()),h}let p=a.getVideoTracks()[0]?.getSettings().facingMode;return{video:e,mirror:(p??n)!=="environment",stop(){a.getTracks().forEach(h=>h.stop()),e.srcObject=null}}}function Pe(n,a,e){return Math.min(e,Math.max(a,n))}var fe=new URLSearchParams(location.search),S=document.querySelector("#frost"),re=S.querySelector("canvas"),At=S.querySelector(".fr-finger"),rt=S.querySelector(".fr-note"),nt=S.querySelector(".fr-cold input"),_t=S.querySelector("output"),Ct=[...S.querySelectorAll("[data-source]")],it=S.querySelector(".fr-flip"),at=matchMedia("(prefers-reduced-motion: reduce)"),nr=matchMedia("(max-width: 700px)").matches,He=nr?[.5,.5]:[.5,.52],st=Number(fe.get("cold")??-9),Pt=n=>`${n<0?"\u2212":""}${Math.abs(n).toFixed(1)} \xB0C`,b=null,oe=null,ze=null,le=S.querySelector(".fr-photo");fe.has("photo")&&(S.querySelector(".fr-pic source")?.remove(),le.src=fe.get("photo"));nt.value=String(st);_t.textContent=Pt(st);function ut(n){for(let a of Ct)a.setAttribute("aria-pressed",String(a.dataset.source===n))}function Xe(n){rt.textContent=n,n&&setTimeout(()=>{rt.textContent===n&&(rt.textContent="")},4e3)}function qe(){oe?.stop(),oe=null,it.hidden=!0,ze&&(URL.revokeObjectURL(ze),ze=null)}try{b=kt({canvas:re,cold:st,focus:He,seed:fe.has("seed")?Number(fe.get("seed")):void 0,still:fe.has("still")||at.matches,onReady:()=>{S.dataset.gl="on"},onFail:()=>{S.dataset.gl="off",b=null,qe()}}),le.decode().then(()=>{b?.setSource(le,{focus:He}),le.addEventListener("load",()=>{b&&!oe&&!ze&&le.complete&&b.setSource(le,{focus:He})})},()=>Xe("The photo didn't load"))}catch{S.dataset.gl="off"}at.addEventListener("change",()=>b?.setStill(at.matches));fe.has("debug")&&Object.assign(window,{frost:b});function zt(){qe(),b?.setSource(le,{focus:He}),ut("photo")}async function qt(n){if(b)try{let a=await Ft(n);if(!b){a.stop();return}qe(),oe=a,b.setSource(a.video,{mirror:a.mirror}),ut("camera"),navigator.mediaDevices.enumerateDevices?.().then(e=>{it.hidden=!oe||e.filter(p=>p.kind==="videoinput").length<2},()=>{})}catch{Xe("No camera, or it wasn't allowed")}}for(let n of Ct)n.addEventListener("click",()=>{n.dataset.source==="photo"||oe?zt():qt("user")});it.addEventListener("click",()=>{qt(oe?.mirror?"environment":"user")});S.querySelector(".fr-file input").addEventListener("change",n=>{let a=n.target.files?.[0];if(!a||!b)return;let e=URL.createObjectURL(a),p=h=>{qe(),ze=e,b.setSource(h),ut("")};if(a.type.startsWith("video/")){let h=document.createElement("video");h.muted=!0,h.loop=!0,h.playsInline=!0,h.src=e,h.play().then(()=>p(h),()=>{URL.revokeObjectURL(e),Xe("That video won't play here")})}else{let h=new Image;h.src=e,h.decode().then(()=>p(h),()=>{URL.revokeObjectURL(e),Xe("That file isn't a picture")})}});nt.addEventListener("input",()=>{let n=Number(nt.value);b?.setCold(n),_t.textContent=Pt(n)});S.querySelector(".fr-thaw").addEventListener("click",()=>b?.thaw());var C=null;function Dt(n,a){return C??={x:0,y:0,down:!1},C.x=Math.min(re.clientWidth,Math.max(0,n)),C.y=Math.min(re.clientHeight,Math.max(0,a)),At.style.left=`${C.x}px`,At.style.top=`${C.y}px`,C.down&&b?.touch(C.x,C.y),C}var ot={ArrowLeft:[-24,0],ArrowRight:[24,0],ArrowUp:[0,-24],ArrowDown:[0,24]};re.addEventListener("keydown",n=>{if(!b)return;let a=C??Dt(re.clientWidth/2,re.clientHeight/2);ot[n.key]?(n.preventDefault(),Dt(a.x+ot[n.key][0],a.y+ot[n.key][1])):(n.key===" "||n.key==="Enter")&&!n.repeat&&(n.preventDefault(),a.down=!0,b.touch(a.x,a.y))});var Gt=()=>{C?.down&&(C.down=!1,b?.touch(null))};re.addEventListener("keyup",n=>{(n.key===" "||n.key==="Enter")&&Gt()});re.addEventListener("blur",Gt);S.querySelector(".fr-save").addEventListener("click",async()=>{let n=await b?.snapshot("image/jpeg",.92);if(!n)return;let a=document.createElement("a");a.href=URL.createObjectURL(n),a.download="frost.jpg",a.click(),setTimeout(()=>URL.revokeObjectURL(a.href),1e3)});addEventListener("pagehide",qe);document.addEventListener("visibilitychange",()=>{document.hidden&&oe&&zt()});

diff --git a/src/frost.ts b/src/frost.ts
@@ -1,7 +1,6 @@
 /**
- * Frost: a window freezing over. Ice ferns grow over it from its frame, a scratch in the glass and a few specks of
- * dust, in Kobayashi's phase field for a growing crystal (1993), stepped on the GPU, and a film of hoar fogs the glass
- * between them. A finger warms the glass and melts it clear where it is held or drawn, into water that beads and
+ * Frost: a window freezing over. Ice ferns grow over it from its frame and a scratch in the glass, in Kobayashi's
+ * phase field for a growing crystal (1993), stepped on the GPU, and a film of hoar fogs the glass between them. A finger warms the glass and melts it clear where it is held or drawn, into water that beads and
  * dries; let go and the ice grows back over the spot from its edge, and the fog forms again.
  *
  * One file, no dependencies: WebGL 2 and eight fragment shaders. The ice lives on a grid of cells (about one to a CSS
@@ -84,8 +83,8 @@ export function random(seed: number) {
 export type Seed = { x: number; y: number; r: number; angle: number; frame: boolean };
 export type Scratch = { ax: number; ay: number; bx: number; by: number; angle: number };
 
-/** Where the ice starts on a grid of w × h cells (y up): along the frame (densest at the foot), a scratch in the
- *  glass and a few specks of dust, each crystal turned its own way. At most 60 seeds. */
+/** Where the ice starts on a grid of w × h cells (y up): along the frame (densest at the foot) and a scratch in the
+ *  glass, each crystal turned its own way. At most 60 seeds. */
 export function seeds(w: number, h: number, seed: number) {
   const rnd = random(seed), list: Seed[] = [];
   const angle = () => rnd() * Math.PI / 3;
@@ -100,11 +99,9 @@ export function seeds(w: number, h: number, seed: number) {
   along(Math.max(2, Math.round(h / (s * 0.16))), u => [1.5, (0.06 + u * 0.88) * h]);   // the left
   along(Math.max(2, Math.round(h / (s * 0.18))), u => [w - 1.5, (0.1 + u * 0.82) * h]); // the right
   along(Math.max(2, Math.round(w / (s * 0.24))), u => [(0.12 + u * 0.8) * w, h - 1.5]); // the head
-  // dust: a few specks between the frame and the middle, where single six-armed stars grow
-  for (let i = 0; i < 3; i++) {
-    const a = rnd() * Math.PI * 2, d = 0.28 + rnd() * 0.12;
-    list.push({ x: w * (0.5 + Math.cos(a) * d), y: h * (0.5 + Math.sin(a) * d * 0.9), r: 2, angle: angle(), frame: false });
-  }
+  // no specks of dust: alone in open glass a crystal grows as a six-armed star, which reads as a paper snowflake, not
+  // frost. Their nine draws are kept, so each window keeps its scratch where it was.
+  for (let i = 0; i < 9; i++) rnd();
   // a scratch, high on one side, slanting down towards the middle
   const left = rnd() < 0.5, len = w * (0.16 + rnd() * 0.08), tilt = 0.32 + rnd() * 0.2;
   const ax = w * (left ? 0.16 : 0.84), ay = h * (0.74 + rnd() * 0.08);

diff --git a/test/frost.test.ts b/test/frost.test.ts
@@ -17,7 +17,7 @@ test("ε and dε/dθ are ε̄(1 + δ cos 6(θ − θ₀)) and its derivative, wi
   assert.deepEqual(anisotropy(0, 0, 0.3), [MODEL.eps, 0]);
 });
 
-test("the same seed lays the same window out; the ice starts on the frame, a scratch and a few specks of dust", () => {
+test("the same seed lays the same window out; the ice starts on the frame and a scratch, nowhere else", () => {
   for (const [w, h] of [[1200, 750], [548, 548], [390, 770]]) {
     const a = seeds(w, h, 7), b = seeds(w, h, 7), c = seeds(w, h, 8);
     assert.deepEqual(a, b);
@@ -29,11 +29,11 @@ test("the same seed lays the same window out; the ice starts on the frame, a scr
       if (s.frame) assert.ok(Math.min(s.x, w - s.x, s.y, h - s.y) < 2, "a frame seed sits on the frame");
     }
     const inside = a.seeds.filter(s => !s.frame);
-    assert.ok(inside.length >= 7, "dust and the scratch");
-    // the scratch's nuclei lie along it
+    // every seed off the frame is a nucleus on the scratch: none alone in open glass, where it would grow as a star
     const { ax, ay, bx, by } = a.scratch, len = Math.hypot(bx - ax, by - ay);
     const along = inside.filter(s => Math.abs((bx - ax) * (ay - s.y) - (ax - s.x) * (by - ay)) / len < 1);
     assert.ok(along.length >= 4, `${along.length} nuclei on the scratch`);
+    assert.equal(along.length, inside.length, "a seed off the frame and off the scratch");
     // most of the frame's seeds are at its foot, where the glass is coldest
     const foot = a.seeds.filter(s => s.frame && s.y < 2).length, head = a.seeds.filter(s => s.frame && s.y > h - 2).length;
     assert.ok(foot > head);

diff --git a/README.md b/README.md
@@ -23,10 +23,11 @@ One TypeScript file, no dependencies: WebGL 2 and eight fragment shaders, about 
   to 900,000 cells on a desktop; on a phone about 1.6 to a CSS pixel, up to 520,000, so its smaller window still
   holds fine ferns). A finer grid takes more steps to cover the same share of the
   window, so the steps a second scale with it and every screen sees the same window freeze.
-- **Where it starts**: seeds along the frame (densest at its foot, where cold air runs down the glass), a row of
-  nuclei along a scratch high on one side, and three specks of dust, each crystal turned its own way. The glass is
-  coldest at its frame and its foot and warmest in its middle (`coldField`), so the ferns reach in from the edges and
-  the middle stays clearest. The latent heat stays in the glass, so the ice stops by itself once it has covered as much
+- **Where it starts**: seeds along the frame (densest at its foot, where cold air runs down the glass) and a row of
+  nuclei along a scratch high on one side, each crystal turned its own way. Nothing starts alone in open glass: a
+  crystal there grows as a six-armed star, which reads as a paper snowflake rather than frost. The glass is coldest at
+  its frame and its foot and warmest in its middle (`coldField`), so the ferns reach in from the edges and the middle
+  stays clearest. The latent heat stays in the glass, so the ice stops by itself once it has covered as much
   as the cold allows; the dial (−20 to −2 °C) sets how far.
 - **The fog**: between the ferns a film of hoar forms over the dry glass, unevenly, in drifts, thinner in the warm
   middle and stopping short of each fern, which has taken the vapour round it. It softens and lifts the street behind
